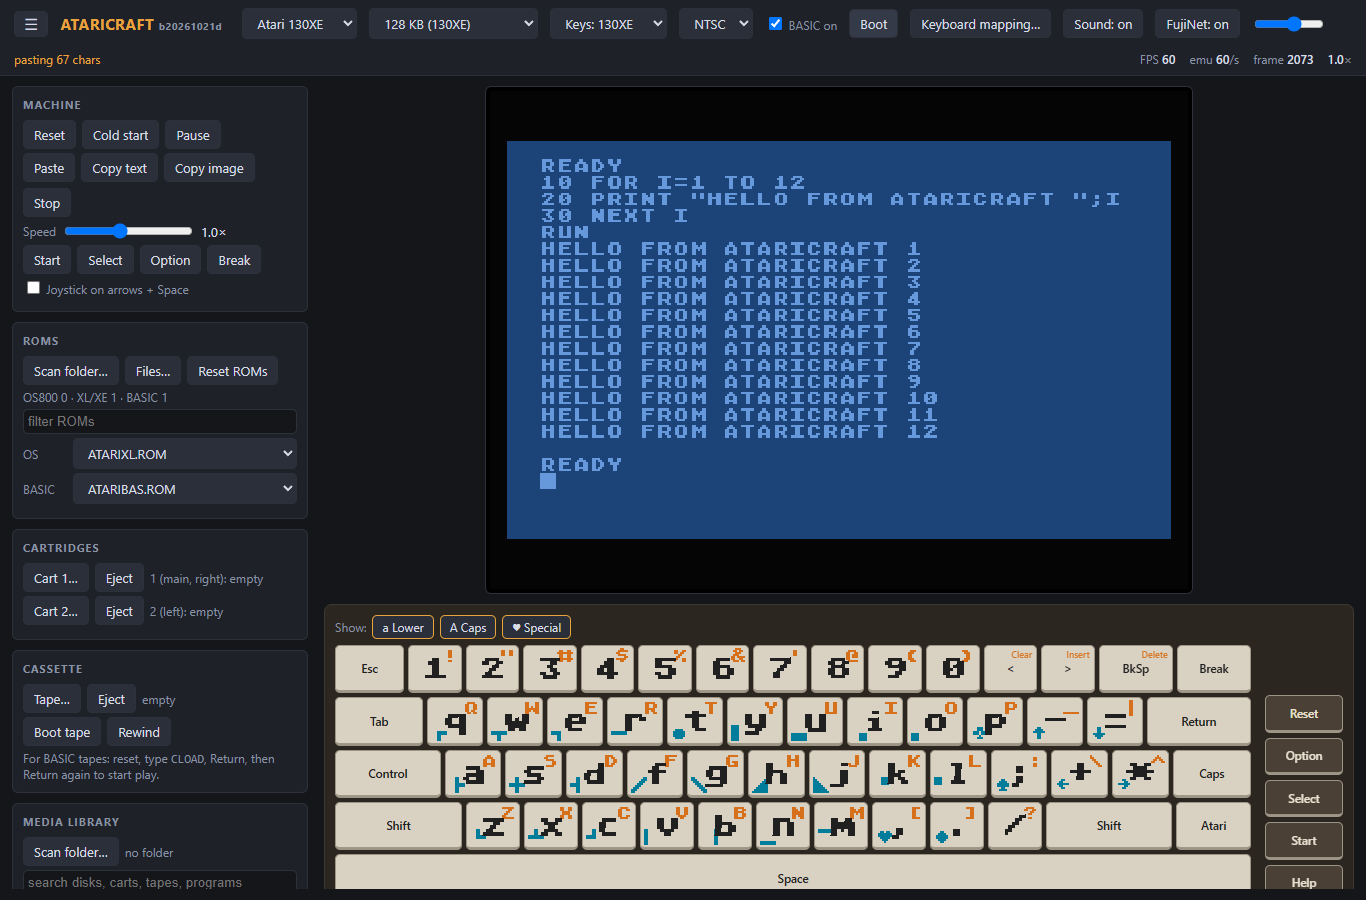
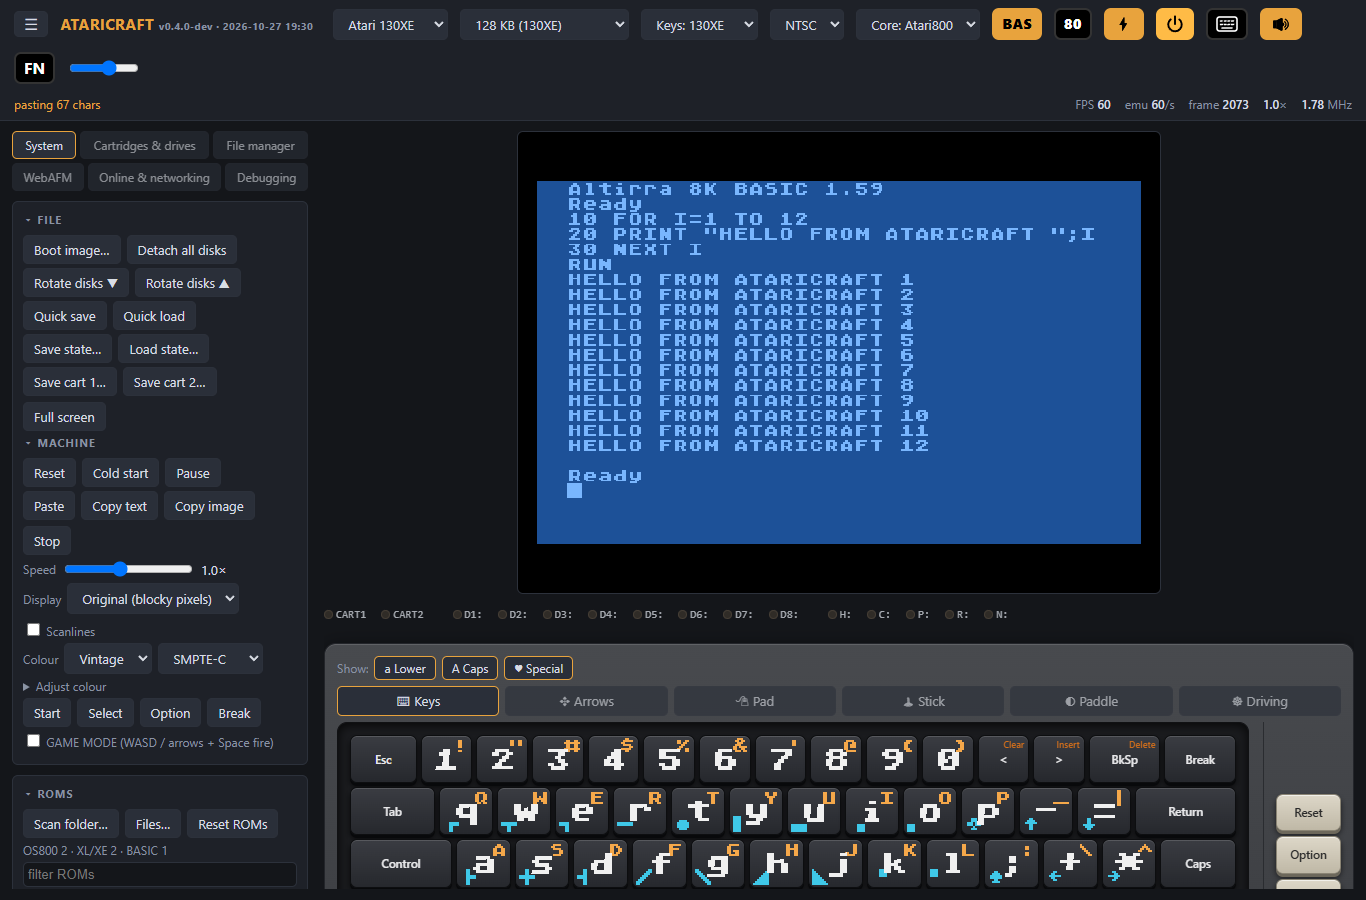
v0.4.0: docs, screenshots, version stamp

diff --git a/web/js/app.js b/web/js/app.js
@@ -3927,7 +3927,7 @@
     return c.toDataURL(format || 'image/png');
   }
 
-  const VERSION = '0.4.0-dev', BUILD = '2026-10-27 19:30';
+  const VERSION = '0.4.0', BUILD = '2026-10-28';
   { const h = $('appver'); if (h) { h.title = `Ataricraft v${VERSION}, built ${BUILD}`; h.querySelector('small').textContent = `v${VERSION} · ${BUILD}`; } console.log(`Ataricraft v${VERSION} (${BUILD})`); }
   window.ataricraft = {
     version: `${VERSION} (${BUILD})`,

diff --git a/web/index.html b/web/index.html
@@ -450,6 +450,6 @@
 <script src="js/keyboard.js?v=20261027zzzzzzzzzzzza"></script>
 <script src="js/fujinet-config.js"></script>
 <script src="js/fujinet.js"></script>
-<script src="js/app.js?v=20261028q"></script>
+<script src="js/app.js?v=20261028r"></script>
 </body>
 </html>

diff --git a/README.md b/README.md
@@ -2,7 +2,7 @@
 
 A web-based Atari 8-bit emulator in the Craft family: humans and agents drive the same engine.
 
-Status: **working browser emulator** on the libatari800 reference core (see `NOTES.md` for done / to-do). Open `web/index.html` directly from disk; no server needed.
+Status: **v0.4.0, working browser emulator** with two cores (libatari800 and AltirraSDL) (see `NOTES.md` for done / to-do). Open `web/index.html` directly from disk; no server needed.
 
 ![ataricraft running Atari BASIC](docs/screenshots/01-desktop-basic.png)
 
@@ -60,6 +60,20 @@ The on-screen keyboard shows the Atari glyphs on the keys. **Show: Lower / Caps 
 - The side panel collapses with ☰. Phone and tablet layouts work (tested at Pixel 6 Pro XL and Galaxy Tab S sizes).
 
 ![Phone layout](docs/screenshots/03-phone.png)
+
+## File managers (v0.4)
+
+**AFM / AFM80** (`web/library/craftapps/AFM/`, source in `tools/afm/`) are native 6502 two-pane file managers that run inside the emulated Atari under DOS 2.0/2.5, MyDOS and SpartaDOS X: copy, move, rename, delete, folders, tags, find, viewer, hex view, text/hex editor, and a **Properties** screen that shows the long name, added date and byte size from `LONGNAME.TXT` plus the DOS date/time on SpartaDOS X. `AFM.COM` is 40 columns, `AFM80.COM` uses an 80-column bitmap screen. Both are bundled on the Ready to run disks you build locally. See [tools/afm/README.md](tools/afm/README.md).
+
+![AFM, 40 columns](docs/screenshots/05-afm-40col.png)
+![AFM80 on 80 columns](docs/screenshots/06-afm80.png)
+![AFM Properties on SpartaDOS X](docs/screenshots/08-afm-properties.png)
+
+**WebAFM** (side tab) is a two-pane disk explorer in the page itself for DOS 2, MyDOS and SpartaDOS/BW-DOS images: copy/move between disks, folders, rename, A-Z folder maker, text/hex editor with a 6502 disassembler, folder-to-disk(s), `LONGNAME.TXT` long names, and per-disk feature chips.
+
+![WebAFM](docs/screenshots/07-webafm.png)
+
+Also new in 0.4: cartridge identification by CRC against DAT files (No-Intro, libretro, ClrMamePro, RomCenter, WUDSN) with a DAT browser and match workbench, and FujiNet browse/mount from public TNFS hosts through a local relay (`start-relay.bat`).
 
 ## 80-column display (XEP80)
 

diff --git a/tools/afm/README.md b/tools/afm/README.md
@@ -43,5 +43,5 @@ SuperDOS keeps its resident code above $2000, where AFM loads, so booting SuperD
 
 ## 80-column build
 
-Assemble with `mads afm.asm -d:COLS80=1 -o:afm80.com`. Uses a 4x8 glyph bitmap (ANTIC mode F) for every screen: file manager, editor (text and hex), viewer, help and info. The bitmap sits at the top of RAM when BASIC is off, otherwise at $8060 (which shrinks the edit buffer). Tested on DOS 2.5 and MyDOS 4.55 (atari800 core) and DOS 2.5 (Altirra core, main screen only); SpartaDOS X is untested. Shipped as AFM80.COM on the Ready to run disks and in the library AFM folder.
+Assemble with `mads afm.asm -d:COLS80=1 -o:afm80.com`. Uses a 4x8 glyph bitmap (ANTIC mode F) for every screen: file manager, editor (text and hex), viewer, help and info. The bitmap sits at the top of RAM when BASIC is off, otherwise at $8060 (which shrinks the edit buffer). Tested on DOS 2.5 and MyDOS 4.55 (atari800 core) and DOS 2.5 (Altirra core, main screen only); also tested on SpartaDOS X 4.43 (main screen and Properties). Shipped as AFM80.COM on the Ready to run disks and in the library AFM folder.
 

diff --git a/NOTES.md b/NOTES.md
@@ -36,3 +36,9 @@ Owner: Jeff (xoxide101). Offline, no build step for the web shell, opens from `f
 
 - MAME titles: #medxml / auto-load a800*.xml from scanned folder; TITLES in localStorage ac.titles; scripts/titles-test.cjs.
 
+
+## v0.4.0 (2026-10-28)
+
+- AFM/AFM80 (REV 13) with full Properties screen (long name, added date, DOS date on SDX/BW-DOS); WebAFM two-pane disk explorer; DAT/CRC cart identification; FujiNet TNFS browse via relay.
+- Release zip: web/ (with git-ignored web/ref cores, only library/craftapps/AFM from the library), roms/altirra, tools/altirra-core, docs, README, NOTES, LICENSE. Third-party DOS boot disks are not shipped.
+- Screenshots: scripts/screenshots.cjs, scripts/screenshots-webafm.cjs; AFM shots taken from the emulator.
